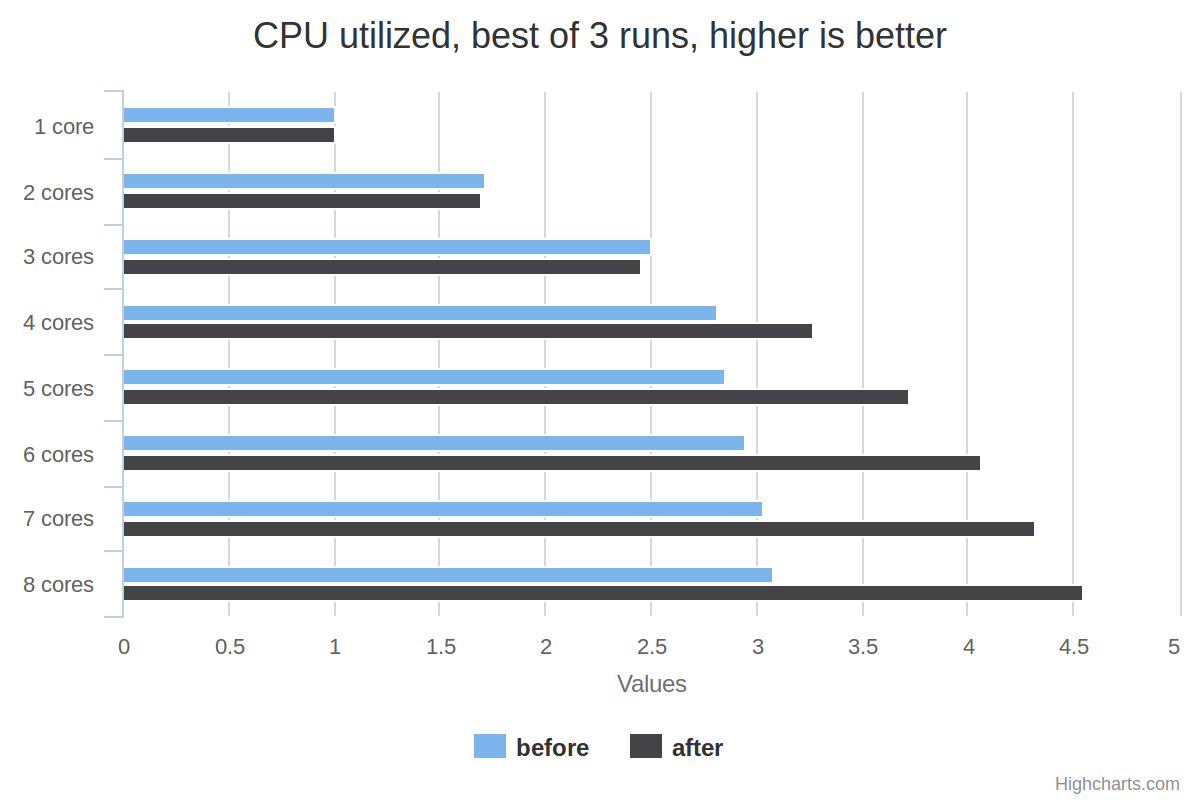
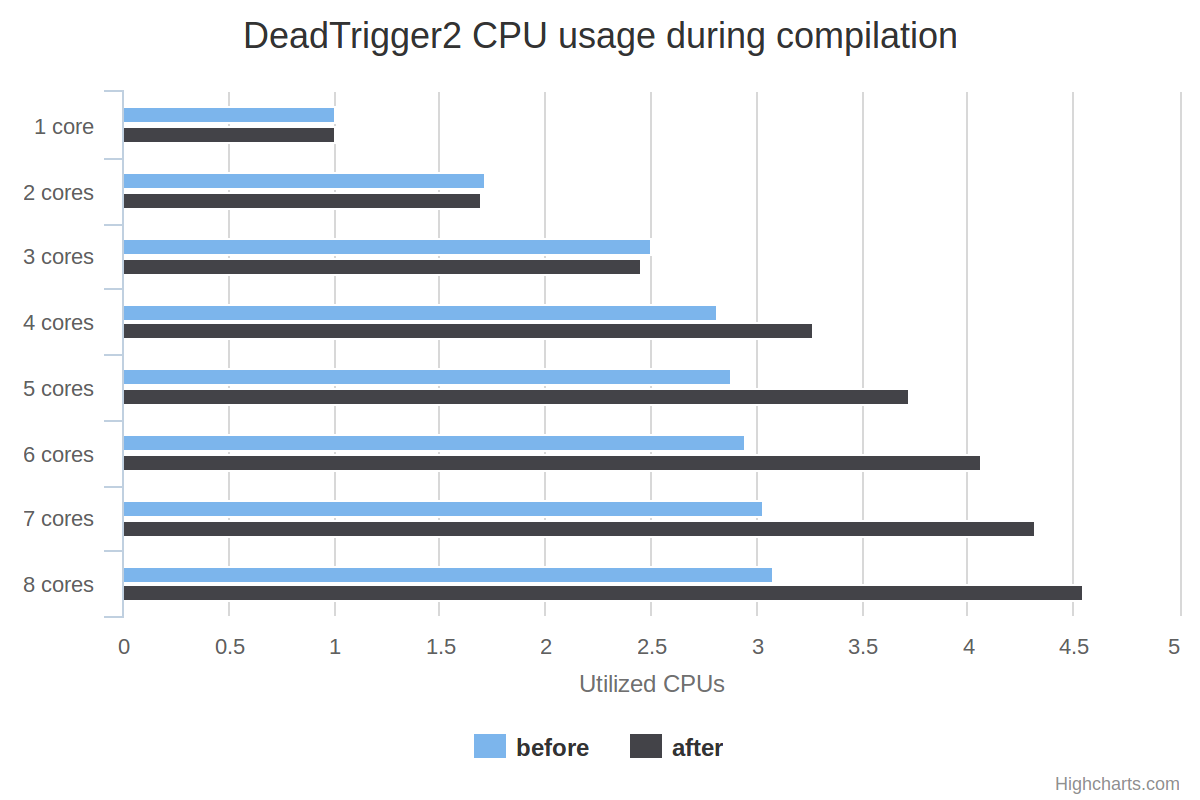
Addressing feedback comments;

Changed region(s): [[0.185, 0.0312, 0.8017, 0.0938], [0.4933, 0.8438, 0.6167, 0.875]]

diff --git a/content/blog/2016-04-22_parallel-asmjs-compilation.md b/content/blog/2016-04-22_parallel-asmjs-compilation.md
@@ -1,20 +1,19 @@
-Title: Improving startup compilation times of asm.js and WebAssembly in Firefox
-Date: 2016-04-20 19:00
+Title: Making asm.js/WebAssembly compilation more parallel in Firefox
+Date: 2016-04-22 15:00
 Author: Benjamin Bouvier
 Tags: opensource, mozilla
-Slug: improving-startup-compilation-times-asmjs-wasm-firefox
-Status: draft
+Slug: making-asmjs-webassembly-compilation-more-parallel
 
 In December 2015, I've worked on reducing startup time of asm.js programs in
-Firefox, by making compilation more parallel. As our
+Firefox by making compilation more parallel. As our
 JavaScript engine, Spidermonkey, uses the same compilation pipeline for both
 asm.js and WebAssembly, this also benefitted WebAssembly compilation. Now is a
-good time for talking about what it meant, how it got achieved and what are the
-next ideas to make it even lower.
+good time to talk about what it meant, how it got achieved and what are the
+next ideas to make it even faster.
 
 # What does it mean to make a program "more parallel"?
 
-Parallelization consists in splitting a sequential program into smaller
+Parallelization consists of splitting a sequential program into smaller
 independent tasks, then having them run on different CPU. If your program
 is using `N` cores, it can be up to `N` times faster.
 
@@ -48,17 +47,17 @@ under Firefox.
 I recommend to read this [blog
 post](https://blog.mozilla.org/luke/2014/01/14/asm-js-aot-compilation-and-startup-performance/).
 It clearly explains the differences between JIT (Just In Time) and AOT (Ahead
-Of Time) compilation, and explicits the different parts of the engines involved
-in the compilation pipeline.
+Of Time) compilation, and elaborates on the different parts of the engines
+involved in the compilation pipeline.
 
 As a TL;DR, keep in mind that [asm.js](http://asmjs.org/) is a strictly
-validated, highly optimizable, typed, subset of JavaScript. Once
+validated, highly optimizable, typed subset of JavaScript. Once
 validated, it guarantees high performance and stability (no garbage collector
 involved!). That is ensured by
 mapping every single JavaScript instruction of this subset to a few CPU
-instructions, if not only a single instruction. Which means an asm.js program needs to
-get *compiled* to machine code, that is, translated from JavaScript to the
-language your CPU directly manipulates (like what GCC would do for a C++
+instructions, if not only a single instruction. This means an asm.js program
+needs to get *compiled* to machine code, that is, translated from JavaScript to
+the language your CPU directly manipulates (like what GCC would do for a C++
 program). If you haven't heard, the results are impressive and you can run
 [video](beta.unity3d.com/jonas/DT2/)
 [games](https://www.unrealengine.com/html5) directly in your browser, without
@@ -81,11 +80,12 @@ Before the work explained below, the pipeline for compiling a single function
   (low-level IR closer to the CPU memory representation: registers, stack,
   etc.). The one generated here is the MIR. All of this happens on the main
   thread.
-- once the entire IR graph is generated for the function, optimize the MIR graph
-  (i.e. apply a few optimization passes). After register allocation happens
-  (probably the most costly task of the pipeline), generate the LIR graph. This
-  can be done on supplementary helper threads, as the MIR optimization and LIR
-  generation for a given function doesn't depend on other ones.
+- once the entire IR graph is generated for the function, optimize the MIR
+  graph (i.e. apply a few optimization passes). Then, generate the LIR graph
+  before carrying out register allocation (probably the most costly task of the
+  pipeline). This can be done on supplementary helper threads, as the MIR
+  optimization and LIR generation for a given function doesn't depend on other
+  ones.
 - since functions can call between themselves within an asm.js module, they
   need references to each other. In assembly, a reference is merely an offset
   to somewhere else in memory. In this initial implementation, code generation
@@ -119,26 +119,27 @@ is translated to MIR in another thread.
 
 Now, instead of parsing and generating MIR in a single pass, we would now parse
 and generate wasm IR in one pass, and generate the MIR out of the wasm IR in
-another pass. Since wasm is very compact and cheap to generate, it is expected
-that compilation time won't suffer. This was a major refactoring, consisting
-in taking all the single instructions of asm.js, encoding them in a compact way
-and later decode these into the equivalent MIR nodes.
+another pass. The wasm IR is very compact and much cheaper to generate than a
+full MIR graph, because generating a MIR graph needs some algorithmic work,
+including the creation of Phi nodes (join values after any form of branching).
+As a result, it is expected that compilation time won't suffer.  This was a
+large refactoring: taking every single asm.js instructions, and encoding them
+in a compact way and later decode these into the equivalent MIR nodes.
 
 For the second part, could we generate code on other threads? One structure in
 the code base, the *MacroAssembler*, is used to generate all the code and it
 contains all necessary metadata about offsets. By adding more metadata there to
-abstract internal calls **\*\***, we could use simple functional concepts
-here:
+abstract internal calls **\*\***, we can describe the new scheme in terms of a
+classic functional `map`/`reduce`:
 
 - the wasm IR is sent to a thread, which will return a MacroAssembler. That
-  is a `map` operation, transforming an array of vector of IR into an array of
+  is a `map` operation, transforming an array of wasm IR into an array of
   MacroAssemblers.
-- When a thread is done compiling, we merge its MacroAssembler with the
-  module's MacroAssembler. Most of the merge consists in taking all the offset
-  metadata in the thread MacroAssembler, fix up each offset by offsetting (!)
-  them by the size of the module's MacroAssembler, and concatenate the two
-  generated code buffers. This is equivalent to a `reduce` operation, merging
-  each MacroAssembler within the module's one.
+- When a thread is done compiling, we merge its MacroAssembler into one big
+  MacroAssembler. Most of the merge consists in taking all the offset metadata
+  in the thread MacroAssembler, fixing up all the offsets, and concatenate the
+  two generated code buffers. This is equivalent to a `reduce` operation,
+  merging each MacroAssembler within the module's one.
 
 At the end of the compilation of the entire module, there is still some light
 work to be done: offsets of internal calls need to be translated to their
@@ -158,58 +159,63 @@ stable, from a function to the other.
 Benchmarking has been done on a Linux x64 machine with 8 cores clocked at 4.2
 Ghz.
 
-First, compilation times when compiling a few asm.js massive games:
+First, compilation times of a few asm.js massive games:
 
 * [DeadTrigger2](http://beta.unity3d.com/jonas/DT2/)
 * [AngryBots](http://beta.unity3d.com/jonas/AngryBots/)
 * [Platformer game](https://github.com/lukewagner/PlatformerGamePacked)
 * [Tappy Chicken](https://www.unrealengine.com/html5)
 
+The X scale is the compilation time in seconds, so lower is better. Each value
+point is the best one of three runs. For the new scheme, the corresponding
+relative speedup (in percentage) has been added:
+
 ![Compilation times of various
 benchmarks]({filename}/images/parallelization-times.png)
 
 For all games, compilation is much faster with the new parallelization scheme.
-To get a better hand at the effect of the new scheme, let's consider
-relative speedup, in percentage:
 
-![Speedup on various benchmarks]({filename}/images/parallelization-speedup.png)
-
-Now, let's go a bit deeper. The Linux CLI tool `perf` has a `stat` function
+Now, let's go a bit deeper. The Linux CLI tool `perf` has a `stat` command
 that gives you an average of the number of utilized CPUs during the program
-execution.  This is a great measure of threading efficiency: the more a CPU is
+execution. This is a great measure of threading efficiency: the more a CPU is
 utilized, the more it is not idle, waiting for other results to come, and thus
 useful. For a constant task execution time, the more utilized CPUs, the more
 likely the program will execute quickly.
 
+The X scale is the number of utilized CPUs, according to the `perf stat`
+command, so higher is better. Again, each value point is the best one of three
+runs.
+
 ![CPU utilized on DeadTrigger2]({filename}/images/parallelization-cpu-utilized.png)
 
 With the older scheme, the number of utilized CPUs quickly rises up from 1 to 4
-cores, then more slowly from 5 cores and beyond. But with the newer scheme, we
-get much more CPU usage even after 6 cores! Then it slows down a bit, although
-it is still more significant than the slow rise of the older scheme. So it is
-likely that with even more threads, we could have even better speedups than the
-one mentioned beforehand.
+cores, then more slowly from 5 cores and beyond. Intuitively, this means that
+with 8 cores, we almost reached the theoritical limit of the portion of the
+program that can be made parallel (not considering the overhead introduced by
+parallelization or altering the scheme).
+
+But with the newer scheme, we get much more CPU usage even after 6 cores! Then
+it slows down a bit, although it is still more significant than the slow rise
+of the older scheme. So it is likely that with even more threads, we could have
+even better speedups than the one mentioned beforehand. In fact, we have moved
+the theoritical limit mentioned above a bit further: we have expanded the
+portion of the program that can be made parallel. Or to keep on using the
+initial car/road metaphor, we've shortened the constant speed portion of the
+road to the benefit of the unlimited speed portion of the road, resulting in a
+shorter trip overall.
 
 # Future steps
 
 Despite these improvements, compilation time can still be a pain, especially on
-mobile. This is mostly due to register allocation, which processing time can
-quickly raise if some functions are very big. Because of this, we decided to
-implement a [baseline
-compiler](https://bugzilla.mozilla.org/show_bug.cgi?id=1232205) for
-WebAssembly. That is, a compiler that won't optimize as much as the whole
-infrastructure (thus it will generate a program that is slower to run), but
-will compile quickly. The idea is that a WebAssembly module would be compiled
-quickly first, so that the user has someting before their eyes. Then a costly,
-full compilation would happen in the background, and when it is done, the
-better optimized code would replace the baseline compiled code. Work is
-ongoing there.
-
-After this, parsing might be the next bottleneck. As we receive and validate
-the bits of a Module from the network, we could start compiling functions.
-Fortunately, WebAssembly has been thought with this goal in mind and will
-easily allow this optimization.
+mobile. This is mostly due to the fact that we're running a whole multi-million
+line codebase through the backend of a compiler to generate optimized code.
+Following this work, the next bottleneck during the compilation process is
+parsing, which matters for asm.js in particular, which source is plain text.
+Decoding WebAssembly is an order of magnitude faster though, and it can be made
+even faster. Moreover, we have even more load-time optimizations coming down
+the pipeline!
 
 In the meanwhile, we keep on improving the WebAssembly backend. Keep track of
 our progress on [bug
 1188259](https://bugzilla.mozilla.org/show_bug.cgi?id=1188259)!
+
